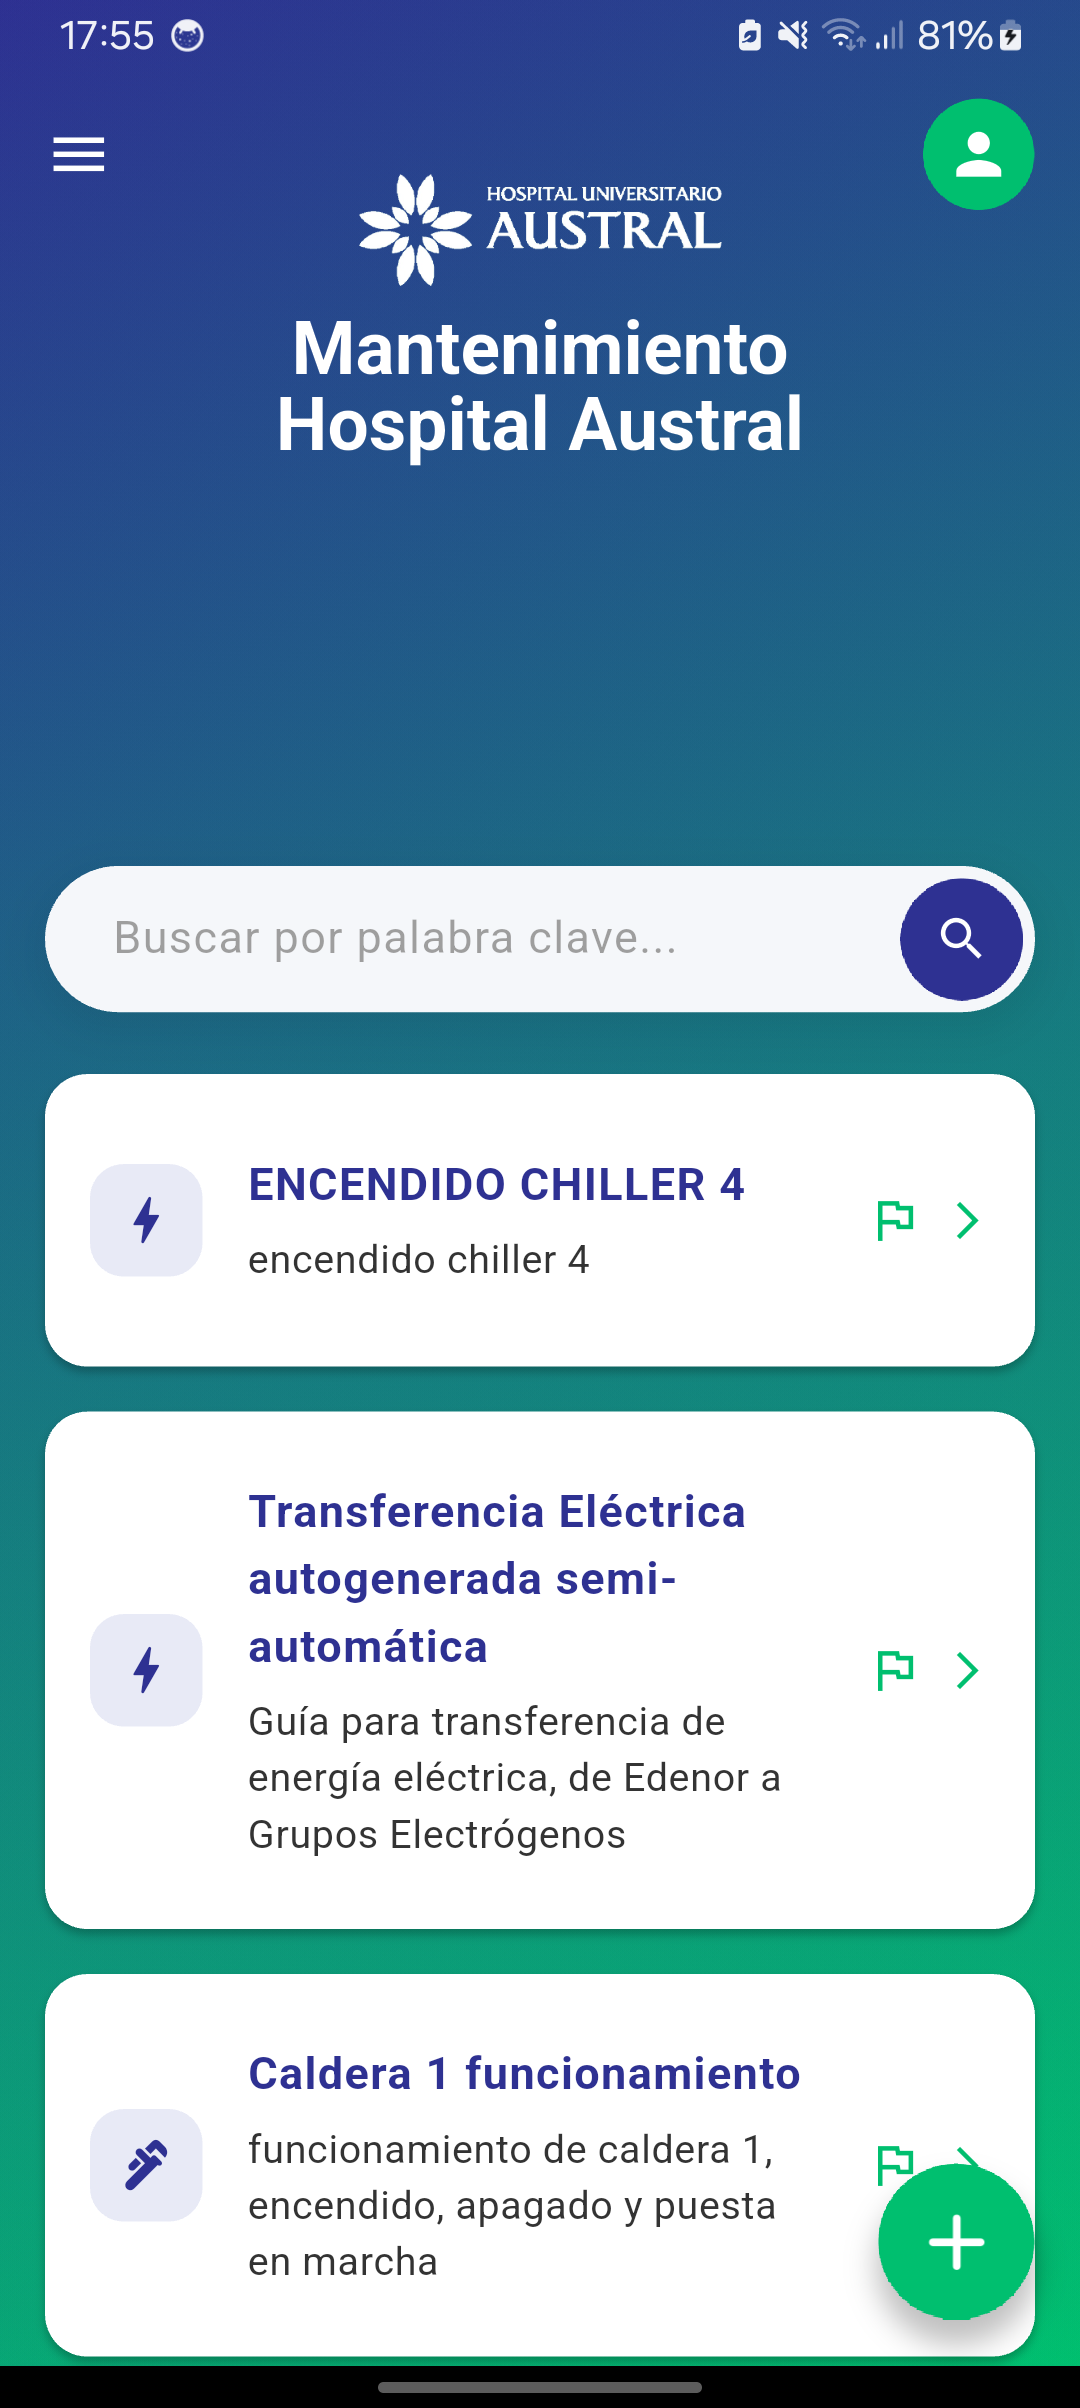
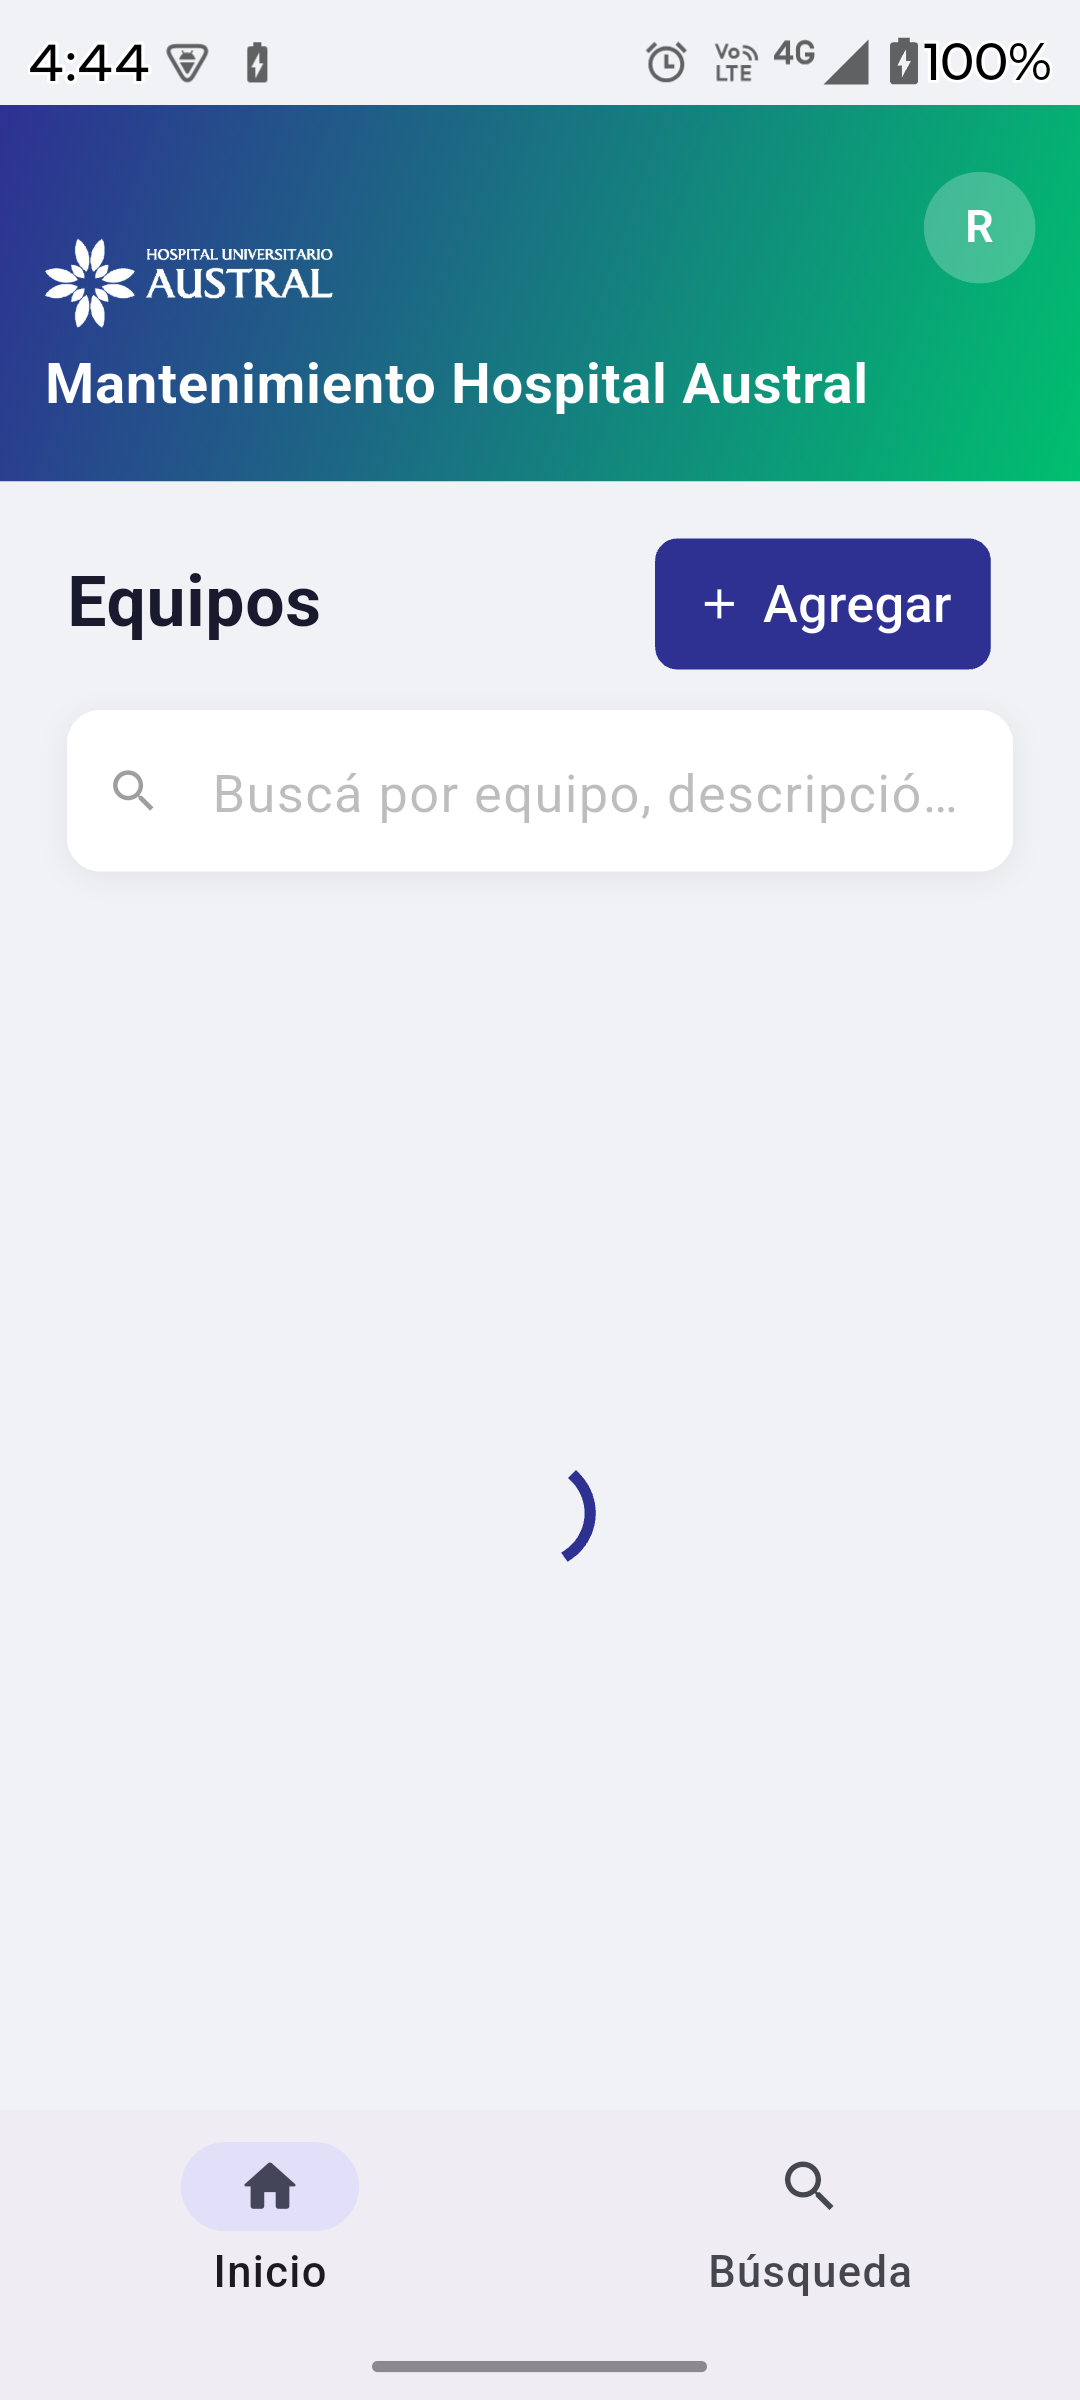
chore: actualizar capturas de pantalla y ajustes en busqueda y repository

diff --git a/lib/services/equipment_repository.dart b/lib/services/equipment_repository.dart
@@ -1,3 +1,5 @@
+import 'dart:async';
+
 import 'package:cloud_firestore/cloud_firestore.dart';
 import 'package:firebase_storage/firebase_storage.dart';
 import 'package:flutter/foundation.dart';
@@ -14,6 +16,8 @@ class EquipmentRepository {
 
   final FirebaseFirestore _firestore;
   final FirebaseStorage _storage;
+  static const String _topicsCollection = 'equipos';
+  static const String _legacyTopicsCollection = 'pdfs';
 
   static const List<String> _videoExtensions = <String>[
     'mp4',
@@ -23,15 +27,26 @@ class EquipmentRepository {
     'webm',
   ];
 
-  Stream<List<Equipment>> getEquipments() async* {
-    await for (final snapshot in _firestore.collection('pdfs').snapshots()) {
-      final equipments = await Future.wait(
-        snapshot.docs.map((doc) async {
-          final mediaSnapshot = await doc.reference.collection('media').get();
+  Stream<List<Equipment>> getEquipments() {
+    final controller = StreamController<List<Equipment>>();
 
-          final mediaDocs = mediaSnapshot.docs
-              .map((d) => <String, dynamic>{'id': d.id, ...d.data()})
-              .toList();
+    QuerySnapshot<Map<String, dynamic>>? primarySnapshot;
+    QuerySnapshot<Map<String, dynamic>>? legacySnapshot;
+
+    Future<List<Equipment>> mapSnapshot(
+      QuerySnapshot<Map<String, dynamic>> snapshot,
+    ) async {
+      return Future.wait(
+        snapshot.docs.map((doc) async {
+          List<Map<String, dynamic>> mediaDocs = const <Map<String, dynamic>>[];
+          try {
+            final mediaSnapshot = await doc.reference.collection('media').get();
+            mediaDocs = mediaSnapshot.docs
+                .map((d) => <String, dynamic>{'id': d.id, ...d.data()})
+                .toList();
+          } catch (e) {
+            debugPrint('No se pudo cargar media para ${doc.id}: $e');
+          }
 
           return Equipment.fromFirestore(
             id: doc.id,
@@ -40,9 +55,59 @@ class EquipmentRepository {
           );
         }),
       );
-
-      yield equipments;
     }
+
+    Future<void> emitMerged() async {
+      try {
+        final primary = primarySnapshot == null
+            ? const <Equipment>[]
+            : await mapSnapshot(primarySnapshot!);
+        final legacy = legacySnapshot == null
+            ? const <Equipment>[]
+            : await mapSnapshot(legacySnapshot!);
+
+        final merged = <String, Equipment>{};
+        for (final equipment in primary) {
+          merged[equipment.id] = equipment;
+        }
+        for (final equipment in legacy) {
+          merged.putIfAbsent(equipment.id, () => equipment);
+        }
+
+        controller.add(merged.values.toList());
+      } catch (e, st) {
+        controller.addError(e, st);
+      }
+    }
+
+    final primarySub = _firestore
+        .collection(_topicsCollection)
+        .snapshots()
+        .listen(
+          (snapshot) {
+            primarySnapshot = snapshot;
+            unawaited(emitMerged());
+          },
+          onError: controller.addError,
+        );
+
+    final legacySub = _firestore
+        .collection(_legacyTopicsCollection)
+        .snapshots()
+        .listen(
+          (snapshot) {
+            legacySnapshot = snapshot;
+            unawaited(emitMerged());
+          },
+          onError: controller.addError,
+        );
+
+    controller.onCancel = () async {
+      await primarySub.cancel();
+      await legacySub.cancel();
+    };
+
+    return controller.stream;
   }
 
   Stream<List<TaskModel>> getTasks() async* {
@@ -75,29 +140,80 @@ class EquipmentRepository {
     }
   }
 
-  Stream<Equipment?> watchEquipmentById(String id) async* {
-    final docRef = _firestore.collection('pdfs').doc(id);
-    await for (final doc in docRef.snapshots()) {
-      if (!doc.exists || doc.data() == null) {
-        yield null;
-        continue;
+  Stream<Equipment?> watchEquipmentById(String id) {
+    final controller = StreamController<Equipment?>();
+    final primaryRef = _firestore.collection(_topicsCollection).doc(id);
+    final legacyRef = _firestore.collection(_legacyTopicsCollection).doc(id);
+
+    DocumentSnapshot<Map<String, dynamic>>? primaryDoc;
+    DocumentSnapshot<Map<String, dynamic>>? legacyDoc;
+
+    Future<void> emitResolved() async {
+      try {
+        final hasPrimary =
+            primaryDoc?.exists == true && primaryDoc?.data() != null;
+        final hasLegacy = legacyDoc?.exists == true && legacyDoc?.data() != null;
+
+        if (!hasPrimary && !hasLegacy) {
+          controller.add(null);
+          return;
+        }
+
+        final activeRef = hasPrimary ? primaryRef : legacyRef;
+        final activeDoc = hasPrimary ? primaryDoc! : legacyDoc!;
+
+        List<Map<String, dynamic>> mediaDocs = const <Map<String, dynamic>>[];
+        try {
+          final mediaSnapshot = await activeRef.collection('media').get();
+          mediaDocs = mediaSnapshot.docs
+              .map((d) => <String, dynamic>{'id': d.id, ...d.data()})
+              .toList();
+        } catch (e) {
+          debugPrint('No se pudo cargar media para ${activeDoc.id}: $e');
+        }
+
+        controller.add(
+          Equipment.fromFirestore(
+            id: activeDoc.id,
+            docData: activeDoc.data()!,
+            mediaDocs: mediaDocs,
+          ),
+        );
+      } catch (e, st) {
+        controller.addError(e, st);
       }
-
-      final mediaSnapshot = await docRef.collection('media').get();
-      final mediaDocs = mediaSnapshot.docs
-          .map((d) => <String, dynamic>{'id': d.id, ...d.data()})
-          .toList();
-
-      yield Equipment.fromFirestore(
-        id: doc.id,
-        docData: doc.data()!,
-        mediaDocs: mediaDocs,
-      );
     }
+
+    final primarySub = primaryRef.snapshots().listen(
+      (snapshot) {
+        primaryDoc = snapshot;
+        unawaited(emitResolved());
+      },
+      onError: controller.addError,
+    );
+
+    final legacySub = legacyRef.snapshots().listen(
+      (snapshot) {
+        legacyDoc = snapshot;
+        unawaited(emitResolved());
+      },
+      onError: controller.addError,
+    );
+
+    controller.onCancel = () async {
+      await primarySub.cancel();
+      await legacySub.cancel();
+    };
+
+    return controller.stream;
   }
 
   Stream<List<({String id, String title})>> watchTopicsList() {
-    return _firestore.collection('pdfs').orderBy('title').snapshots().map((s) {
+    return _firestore
+        .collection(_topicsCollection)
+        .orderBy('title')
+        .snapshots()
+        .map((s) {
       return s.docs
           .map(
             (doc) => (
@@ -110,7 +226,10 @@ class EquipmentRepository {
   }
 
   Future<List<({String id, String title})>> getTopicsList() async {
-    final snapshot = await _firestore.collection('pdfs').orderBy('title').get();
+    final snapshot = await _firestore
+        .collection(_topicsCollection)
+        .orderBy('title')
+        .get();
     return snapshot.docs
         .map(
           (doc) => (
@@ -157,7 +276,7 @@ class EquipmentRepository {
 
   String _buildStoragePath(String pdfId, String safeFileName) {
     final timestamp = DateTime.now().millisecondsSinceEpoch;
-    return 'pdfs/$pdfId/${timestamp}_$safeFileName';
+    return 'equipos/$pdfId/${timestamp}_$safeFileName';
   }
 
   String _sanitizeFileName(String fileName) {
@@ -180,7 +299,7 @@ class EquipmentRepository {
     final safeFileName = _sanitizeFileName(originalFileName);
     final mediaType = _detectMediaType(originalFileName);
 
-    final docRef = _firestore.collection('pdfs').doc();
+    final docRef = _firestore.collection(_topicsCollection).doc();
 
     await docRef.set({
       'title': title,
@@ -220,7 +339,7 @@ class EquipmentRepository {
   }) async {
     final safeFileName = _sanitizeFileName(originalFileName);
     final mediaType = _detectMediaType(originalFileName);
-    final docRef = _firestore.collection('pdfs').doc(pdfId);
+    final docRef = _firestore.collection(_topicsCollection).doc(pdfId);
 
     final downloadUrl = await _uploadMediaToTopic(
       docRef: docRef,
@@ -242,7 +361,7 @@ class EquipmentRepository {
     required String equipmentId,
     required String mediaSource,
   }) async {
-    final docRef = _firestore.collection('pdfs').doc(equipmentId);
+    final docRef = _firestore.collection(_topicsCollection).doc(equipmentId);
 
     // Borrado en Storage con tolerancia a rutas legacy/url.
     try {
@@ -372,7 +491,7 @@ class EquipmentRepository {
     required String mediaDocId,
   }) {
     return _firestore
-        .collection('pdfs')
+      .collection(_topicsCollection)
         .doc(equipmentId)
         .collection('media')
         .doc(mediaDocId)
@@ -392,7 +511,7 @@ class EquipmentRepository {
     required String text,
   }) {
     return _firestore
-        .collection('pdfs')
+      .collection(_topicsCollection)
         .doc(equipmentId)
         .collection('media')
         .doc(mediaDocId)
@@ -409,7 +528,7 @@ class EquipmentRepository {
     required String commentId,
   }) {
     return _firestore
-        .collection('pdfs')
+      .collection(_topicsCollection)
         .doc(equipmentId)
         .collection('media')
         .doc(mediaDocId)

diff --git a/lib/screens/busqueda_screen.dart b/lib/screens/busqueda_screen.dart
@@ -45,14 +45,14 @@ class _BusquedaScreenState extends State<BusquedaScreen> {
   @override
   Widget build(BuildContext context) {
     return Scaffold(
-      appBar: AppBar(title: const Text('Búsqueda de Documentos')),
+      appBar: AppBar(title: const Text('Búsqueda de Equipos')),
       body: Column(
         children: [
           Padding(
             padding: const EdgeInsets.all(8.0),
             child: TextField(
               decoration: InputDecoration(
-                hintText: 'Buscar por palabra clave...',
+                hintText: 'Buscar tarjeta por equipo, descripción o etiqueta...',
                 prefixIcon: const Icon(Icons.search),
                 border: OutlineInputBorder(
                   borderRadius: BorderRadius.circular(10),
@@ -80,7 +80,7 @@ class _BusquedaScreenState extends State<BusquedaScreen> {
                 final equipments = _viewModel.equipments;
                 if (equipments.isEmpty) {
                   return const Center(
-                    child: Text('No se encontraron documentos'),
+                    child: Text('No se encontraron tarjetas de equipos'),
                   );
                 }
 
